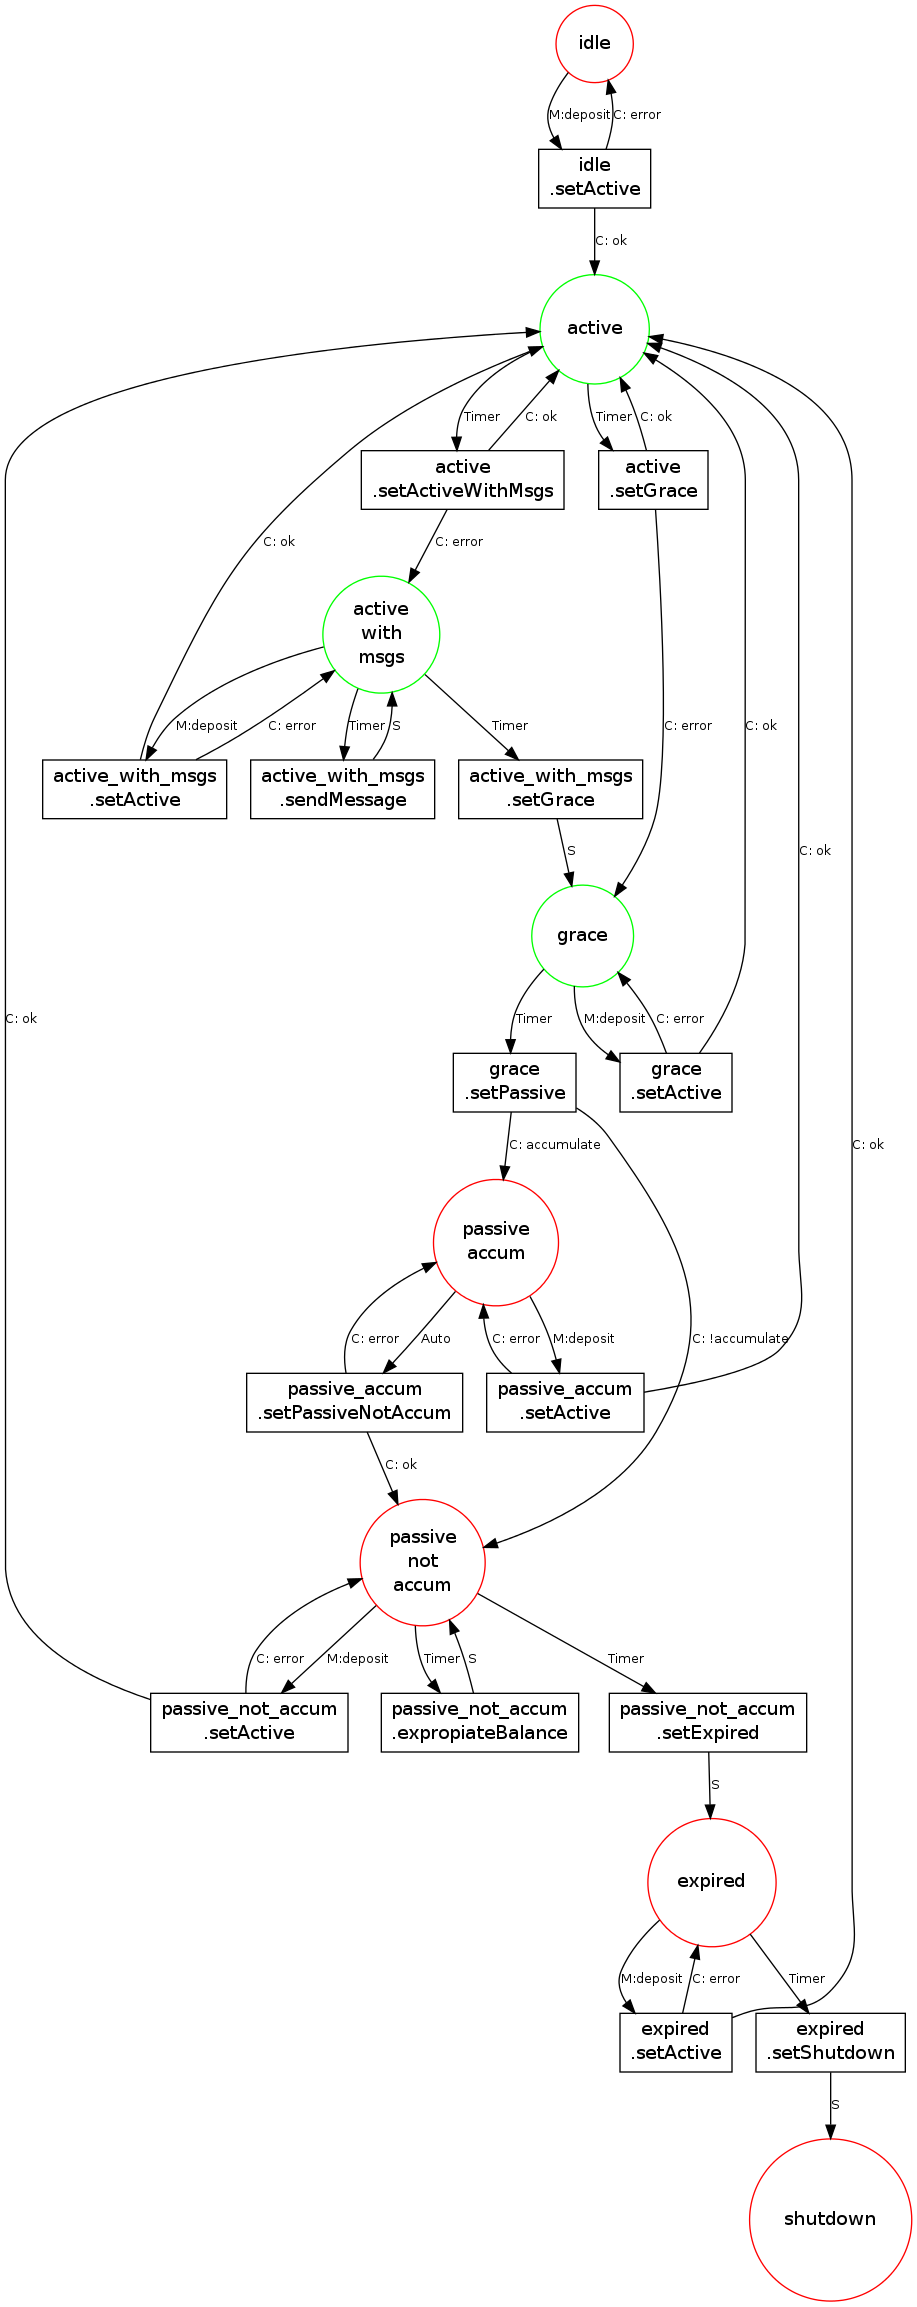
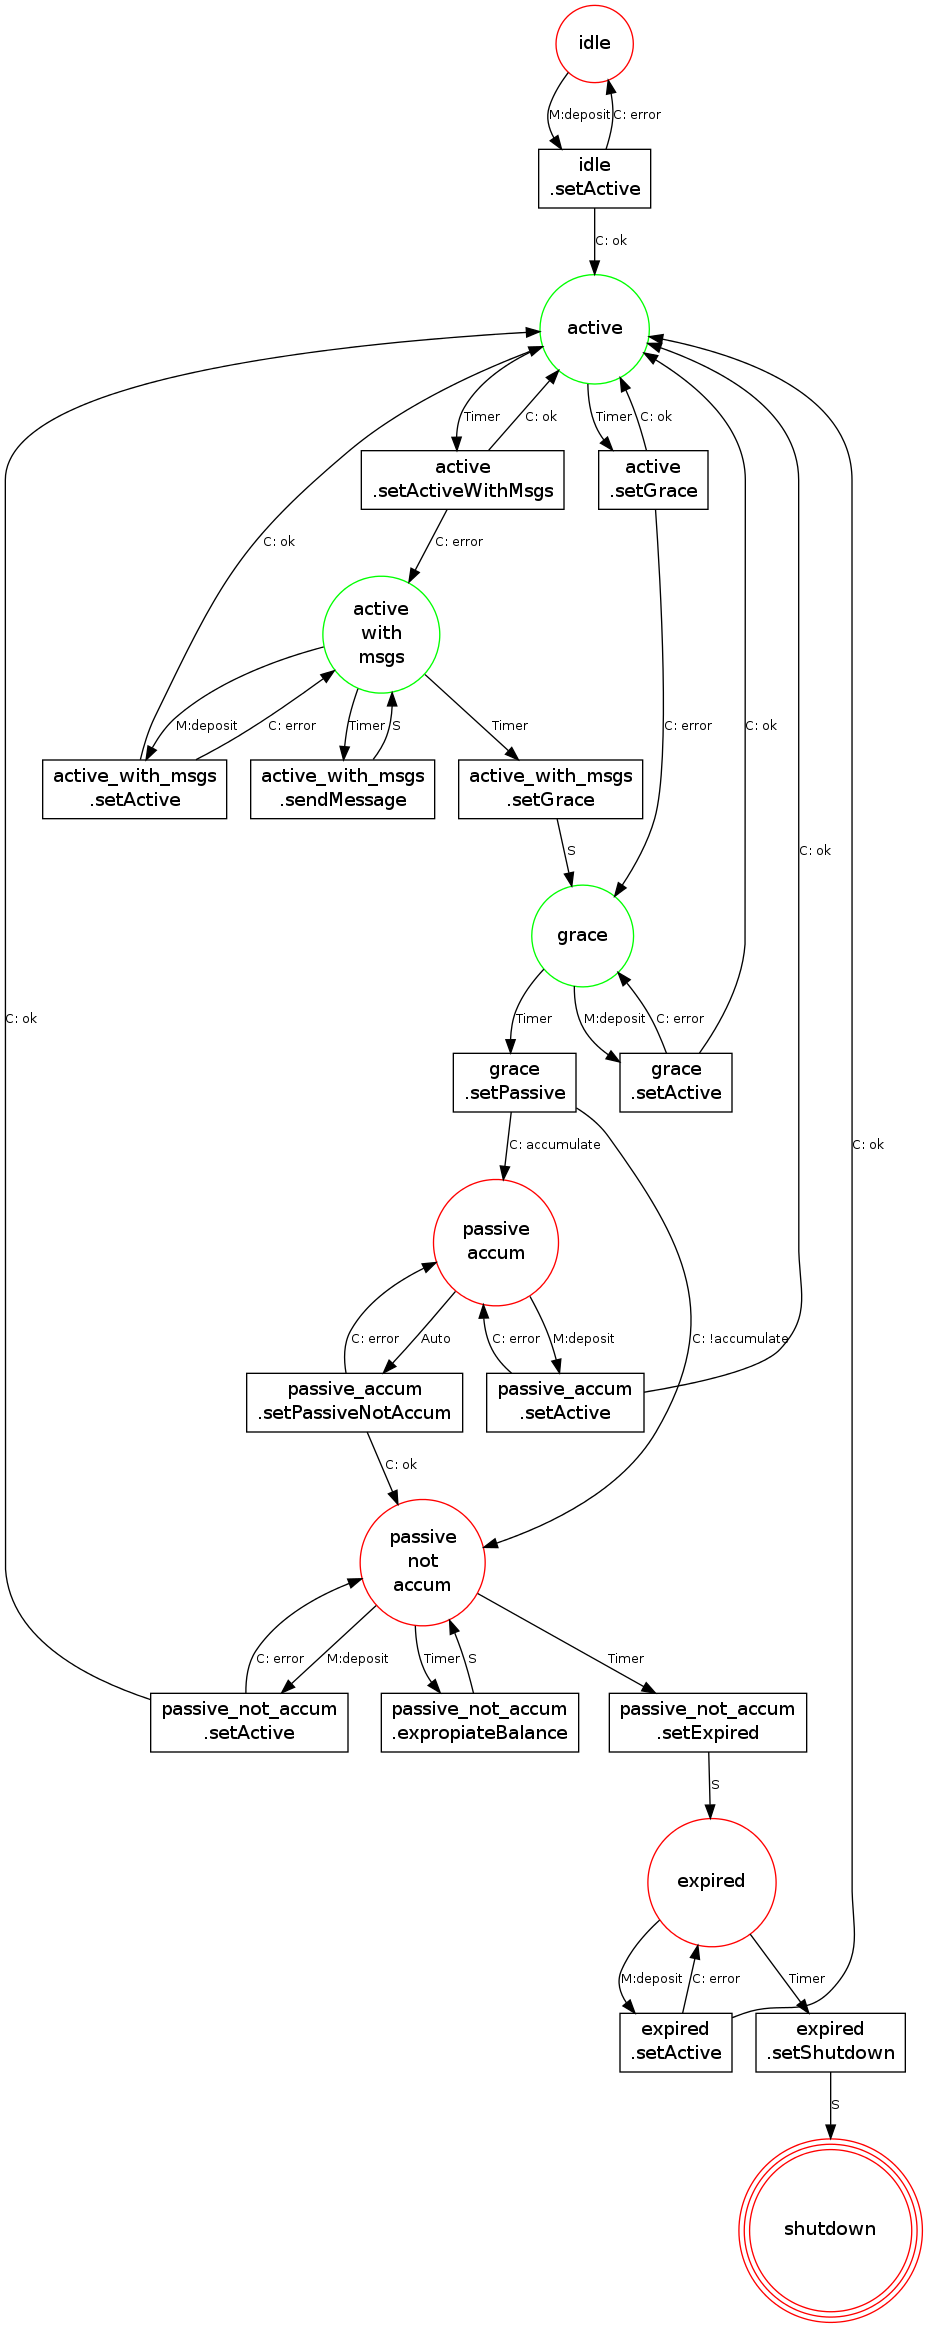
Agregué que en el gráfico se vea la posición del token.

diff --git a/classes/WorkflowEngine.php b/classes/WorkflowEngine.php
@@ -42,11 +42,11 @@ class WorkflowEngine
         // Se verifica que la "transition" esté habilitada para ejecutarse. Esto es, que tenga un "token" en cada "place" de entrada.
         $original_places = array();
         $enabled = true;
-        foreach ($transition['in_arcs'] as $arc) {
-            if (empty($this->_case->tokens[$arc])) {
-                $enabled = false;
+        foreach ($transition['in_arcs'] as $place) {
+            if ($this->_case->isTokenAtPlace($place)) {
+                $original_places[] = $place;
             } else {
-                $original_places[] = $arc;
+                $enabled = false;
             }
         }
         
@@ -68,8 +68,8 @@ class WorkflowEngine
             
             // Se eliminan los "tokens" de los "places" de entrada.
             debug(__CLASS__.".".__FUNCTION__."() Transition '{$transition_name}' cleaning all IN_ARC(s) token(s). Level: {$level}"); 
-            foreach ($transition['in_arcs'] as $arc) {
-                unset($this->_case->tokens[$arc]);
+            foreach ($transition['in_arcs'] as $place) {
+                $this->_case->clearTokenAtPlace($place);
             }
 
             debug(__CLASS__.".".__FUNCTION__."() Transition '{$transition_name}' finding OUT_ARC(s) where to set the token(s). Level: {$level}");
@@ -84,12 +84,12 @@ class WorkflowEngine
                         if ($condition['condition'] == $result) {
                             debug(__CLASS__.".".__FUNCTION__."() Transition '{$transition_name}' OUT_ARC '{$destination_place}' applies! Level: {$level}"); 
                             
-                            if (empty($this->_case->tokens[$destination_place])) {
-                                debug(__CLASS__.".".__FUNCTION__."() Transition '{$transition_name}' setting token in '{$destination_place}' PLACE. Level: {$level}"); 
-                                $this->_case->tokens[$destination_place] = $time;
+                            if (!$this->_case->isTokenAtPlace($destination_place)) {
+                                debug(__CLASS__.".".__FUNCTION__."() Transition '{$transition_name}' setting token in '{$destination_place}' PLACE. Level: {$level}");
+                                $this->_case->setTokenAtPlace($destination_place, $time);
                             }
                             
-                            $new_tokens[$destination_place] = $this->_case->tokens[$destination_place];
+                            $new_tokens[$destination_place] = $this->_case->getTokenAtPlace($destination_place);
                         } else {
                             debug(__CLASS__.".".__FUNCTION__."() Transition '{$transition_name}' OUT_ARC '{$destination_place}' does not apply. Level: {$level}"); 
                         }
@@ -99,11 +99,11 @@ class WorkflowEngine
                     default:
                         debug(__CLASS__.".".__FUNCTION__."() Transition '{$transition_name}' OUT_ARC '{$destination_place}' type always applies! Level: {$level}"); 
                             
-                        if (empty($this->_case->tokens[$destination_place])) {
+                        if (!$this->_case->isTokenAtPlace($destination_place)) {
                             debug(__CLASS__.".".__FUNCTION__."() Transition '{$transition_name}' setting token in '{$destination_place}' PLACE. Level: {$level}"); 
-                            $this->_case->tokens[$destination_place] = $time;
+                            $this->_case->setTokenAtPlace($destination_place, $time);
                         }
-                        $new_tokens[$destination_place] = $this->_case->tokens[$destination_place];
+                        $new_tokens[$destination_place] = $this->_case->getTokenAtPlace($destination_place);
                         break;
                 }
                 

diff --git a/gfxgen.php b/gfxgen.php
@@ -8,23 +8,24 @@ $datafile   = "./gfx/{$account_id}_gfx.dat";
 $gfxfile    = "./gfx/{$account_id}_gfx.png";
 
 $account = new Account($account_id);
-$workflow_case = new WorkflowCase('PrepaidLifecycleWorkflow', $account);
-$flow = $workflow_case->workflow;
+$case = new WorkflowCase('PrepaidLifecycleWorkflow', $account);
+$flow = $case->workflow;
 
 // gfx start
 $rawdata = 'digraph gfx {';
 
 // places
 foreach ($flow->places AS $place => $config) {
+    $token = ($case->isTokenAtPlace($place)) ? ',peripheries=3' : ',peripheries=1';
     $label = str_replace("_", "\\n", $place);
     $color = ($config['description']['hasService']) ? 'green' : 'red';
-    $rawdata .= "node [shape=circle,color={$color},fixedsize=false,label=\"{$label}\"]; \"{$place}\";\n";
+    $rawdata .= "node [shape=circle,color={$color},fixedsize=false,label=\"{$label}\"{$token}]; \"{$place}\";\n";
 }
 
 // transitions
 foreach ($flow->transitions AS $transition => $config) {
     $label = str_replace(".", "\\n.", $transition);
-    $rawdata .= "node [shape=box,color=black,fixedsize=false,label=\"{$label}\"]; \"{$transition}\";\n";
+    $rawdata .= "node [shape=box,color=black,fixedsize=false,label=\"{$label}\",peripheries=1]; \"{$transition}\";\n";
 
     if (is_array($config['in_arcs'])) {
         foreach ($config['in_arcs'] AS $target) {

diff --git a/classes/WorkflowCase.php b/classes/WorkflowCase.php
@@ -25,6 +25,31 @@ class WorkflowCase extends Show
     {
         return $this->_case_id;
     }
+
+    public function getTokens()
+    {
+        return $this->tokens;
+    }
+
+    public function getTokenAtPlace($place)
+    {
+        return ($this->isTokenAtPlace($place)) ? $this->tokens[$place] : null;
+    }
+
+    public function isTokenAtPlace($place)
+    {
+        return !empty($this->tokens[$place]);
+    }
+
+    public function setTokenAtPlace($place, $token)
+    {
+        $this->tokens[$place] = $token;
+    }
+
+    public function clearTokenAtPlace($place)
+    {
+        unset($this->tokens[$place]);
+    }
     
     public function save()
     {

diff --git a/classes/PrepaidLifecycleWorkflow.php b/classes/PrepaidLifecycleWorkflow.php
@@ -2,7 +2,6 @@
 
 /*
  * TODO: Depósito negativo!
- * TODO: Mostrar en gfx donde está el token.
  * TODO: Testear reactivaciones.
  * TODO: Testear active a grace sin mensajes.
  * TODO: Testear grace con acumulación de deuda.
